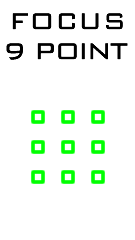
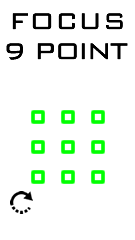
Develop v1.0.11 (#20)
mostly for issue https://github.com/frank26080115/alpha-fairy/issues/19

* auto Tv delay for focus stack, adj spacing for 9pt focus

* added button toggle mode when upside down

* added err when tv step wrong expo mode

Changed region(s): [[0.0593, 0.7875, 0.237, 0.9042]]

diff --git a/arduino_workspace/AlphaFairy/alfy_conf.h b/arduino_workspace/AlphaFairy/alfy_conf.h
@@ -1,8 +1,8 @@
 #ifndef _ALFY_CONF_H_
 #define _ALFY_CONF_H_
 
-#define ALFY_VERSION            "1.0.10"    // change this with every new build
-#define ALFY_VERSION_FILE_CHECK "/chk1.txt" // change this when FS files needs updating
+#define ALFY_VERSION            "1.0.11"    // change this with every new build
+#define ALFY_VERSION_FILE_CHECK "/chk2.txt" // change this when FS files needs updating
 
 //#define WIFI_AP_UNIQUE_NAME
 #ifndef WIFI_AP_UNIQUE_NAME
